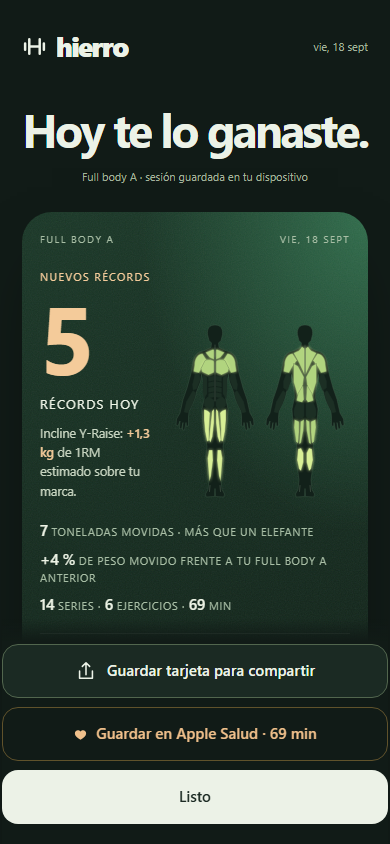
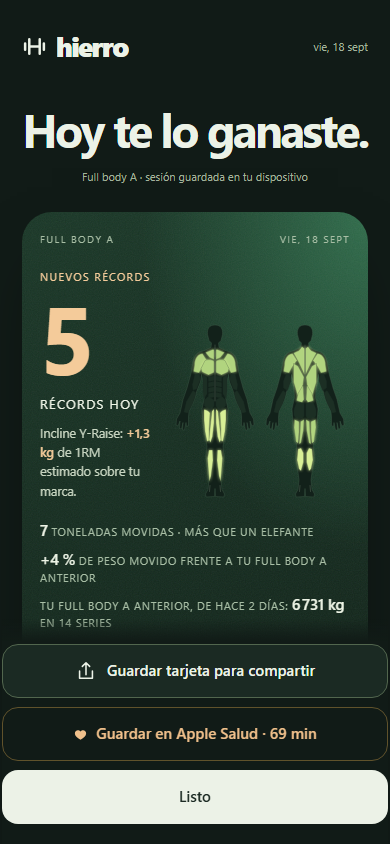
Require the effort on every set and always show the previous session in beta 3.10.0
The last-load reference under the proposal loses its shortcut and stays
a reference. Logging a set without RIR now opens the effort picker and
choosing a value confirms the set in the same gesture; the leave-blank
option is gone and the field reads as required. Time-based sets keep
having no RIR. The finish poster always shows the previous session of
the same plan with its weight and set count, dated, even when today's
session is partial; the percentage still needs two complete sessions.
Test fixtures note the effort on their sets like a person would.

Changed region(s): [[0.0923, 0.7085, 0.6154, 0.7393], [0.6462, 0.7085, 0.8923, 0.7393]]

diff --git a/tests/run.js b/tests/run.js
@@ -85,6 +85,13 @@ function confirmFixtureSets(){
   for(const ex of db.active?.exercises||[])for(const st of ex.sets)if(uiValidSet(ex.key,st))st.done=true;
 }
 function fixtureEntries(){confirmFixtureSets();return collectEntries(db.active);}
+/* Los recorridos de registro representan series con su esfuerzo anotado, como
+   exige la app desde 3.10.0. Las pruebas del propio requisito llaman a uiLogSet. */
+function logSetFixture(xi,si){
+ const ex=db.active.exercises[xi],st=ex.sets[si];
+ if(exMeta(ex.key).type!=='tiempo'&&(st.rir===''||st.rir===undefined||st.rir===null))st.rir='1';
+ uiLogSet(xi,si);
+}
 /* Existing working-set scenarios begin after the real guided preparation.
    Advance a fake wall clock through its rests; never mark work as confirmed. */
 function prepareFixture(xi){
@@ -2288,7 +2295,7 @@ view={name:'routine',id:'newr'};startSession('newr');
 db.active.exercises[0].sets=[{w:'',r:'',rir:''},{w:'',r:'',rir:''}];
 setVal(0,0,'w','40');setVal(0,0,'r','10');
 chk(restUntil===null,'escribir peso y reps no inicia el descanso');
-prepareFixture(0);uiLogSet(0,0);
+prepareFixture(0);logSetFixture(0,0);
 chk(db.active.exercises[0].sets[0].done&&db.active.uiRest&&restUntil>Date.now(), 'confirmar guarda la serie y abre el descanso');
 chk(uiSession().includes('n-rest-phase')&&!uiSession().includes('id="n-weight"'), 'el descanso sustituye el formulario de la serie');
 uiContinue();
@@ -2351,17 +2358,17 @@ askFinish();
 chk(els.modalhost.innerHTML.includes('No hay series confirmadas')&&db.active!==null,'terminar explica que no se han confirmado series');
 closeModal();finishSession();
 chk(db.history.length===historyBeforeProposal&&db.active!==null,'ni siquiera el cierre directo crea una sesión con propuestas sin confirmar');
-closeModal();prepareFixture(0);uiLogSet(0,0);
+closeModal();prepareFixture(0);logSetFixture(0,0);
 const firstRest=restUntil;
 chk(exDone(db.active.exercises[0])&&collectEntries(db.active).length===1,'registrar sí confirma el ejercicio de una serie');
 chk(sessionOpenIdx()===0&&db.active.uiRest&&uiSession().includes('Ejercicio completo'),'el descanso de la última serie permanece en el ejercicio correcto');
-prepareFixture(0);uiLogSet(0,0);
+prepareFixture(0);logSetFixture(0,0);
 chk(restUntil===firstRest,'una confirmación repetida no reinicia el descanso');
 db=normalize(JSON.parse(localStorage.getItem(LS_KEY)));
 chk(db.active.uiRest&&db.active.restUntil===firstRest&&sessionOpenIdx()===0,'la recarga conserva confirmación, ejercicio y descanso');
 uiContinue();
 chk(sessionOpenIdx()===1&&!db.active.uiRest,'continuar tras el último descanso lleva al siguiente ejercicio sin otro paso');
-uiSelectExercise(1);uiUseSuggestion(1);prepareFixture(1);uiLogSet(1,0);uiContinue();uiSelectExercise(2);uiUseSuggestion(2);
+uiSelectExercise(1);uiUseSuggestion(1);prepareFixture(1);logSetFixture(1,0);uiContinue();uiSelectExercise(2);uiUseSuggestion(2);
 chk(collectEntries(db.active).length===2,'el cierre incluye solo las dos series confirmadas, no la tercera propuesta');
 askFinish();
 chk(els.modalhost.innerHTML.includes('sin confirmar'),'el cierre advierte de campos rellenados pendientes de confirmar');closeModal();
@@ -2398,7 +2405,7 @@ prepareFixture(0);const timeUI=uiSession();
 chk(timeUI.includes('no se usa RIR')&&!timeUI.includes('onclick="uiRIR('),'la sesión por tiempo explica la unidad y no muestra selector de RIR');
 setVal(0,0,'r','35');setVal(0,0,'rir','1');
 chk(db.active.exercises[0].sets[0].rir==='','no se acepta 1 RIR como si significara segundos');
-prepareFixture(0);uiLogSet(0,0);
+prepareFixture(0);logSetFixture(0,0);
 chk(collectEntries(db.active)[0].sets[0].r===35&&collectEntries(db.active)[0].sets[0].rir===undefined,'se guarda la duración sin RIR, con lastre vacío permitido');
 uiEditSet(0,0);chk(!els.modalhost.innerHTML.includes('id="n-edit-rir"'),'el editor de una serie por tiempo tampoco pide RIR');closeModal();
 db.history=[];sess(onlyTime,[S(0,30,0),S(0,30,0),S(0,30,0)]);sess(onlyTime,[S(0,35,0),S(0,35,0),S(0,35,0)]);
@@ -2638,7 +2645,7 @@ openExFromSession(0,'equipment');
 chk(view.exTab==='equipment'&&view.from==='session'&&view.rid==='mobile-day'&&uiExercise().includes('Primera placa'),'ajustar la torre abre Equipo en el contexto de la sesión');
 chk(db.active.exercises[0]===mobileEx&&!mobileEx.sets[0].done,'abrir Equipo mantiene el borrador de la sesión');
 view={name:'session'};showLoad(0);chk(els.modalhost.innerHTML.includes("openExFromSession(0,'equipment')"),'el botón de la torre enlaza al ajuste directo');closeModal();
-prepareFixture(0);uiLogSet(0,0);const afterProposalRest=restUntil;
+prepareFixture(0);logSetFixture(0,0);const afterProposalRest=restUntil;
 chk(mobileEx.sets[0].done&&afterProposalRest>Date.now()&&db.active.uiRest,'solo Registrar confirma e inicia el descanso');
 uiUndoProposal(0);chk(mobileEx.sets[0].done&&restUntil===afterProposalRest,'deshacer no modifica una serie ya registrada ni su descanso');
 chk(!warmupPlan(1).first,'una serie confirmada del mismo músculo sí cuenta como trabajo previo');
@@ -2794,7 +2801,7 @@ let warmEx=db.active.exercises[0],warmState=ensureWarmup(0);
 chk(warmState.phase==='set'&&warmState.plan.W===60&&warmState.plan.steps.length===2,'elegir 60 kg crea dos aproximaciones');
 chk(warmState.plan.steps[0].w===35&&warmState.plan.steps[1].w===50,'la escalera usa placas existentes: 35 y 50 kg');
 chk(uiSession().includes('Pin en la placa')&&uiSession().includes('Calentamiento 1 de 2')&&!uiSession().includes('Registrar serie'),'la preparación sustituye toda la interfaz de registro');
-warmEx.sets[0].r='8';uiLogSet(0,0);toggleSetDone(0,0);
+warmEx.sets[0].r='8';logSetFixture(0,0);toggleSetDone(0,0);
 chk(!warmEx.sets[0].done&&collectEntries(db.active).length===0,'los dos caminos para registrar bloquean trabajo antes de preparar');
 uiContinue();chk(warmupRequired(0),'Continuar el descanso normal tampoco salta la preparación');
 const warmStepToken=warmState.id;uiWarmupRecord(0,warmStepToken,0);
@@ -2827,7 +2834,7 @@ setVal(0,0,'w','65');chk(!warmupRequired(0)&&ensureWarmup(0).id===completedWarmT
 setVal(0,0,'w','70');chk(warmupRequired(0)&&ensureWarmup(0).id!==completedWarmToken,'subir la carga más de un 15 % antes de empezar trabajo recalcula la preparación');
 setVal(0,0,'w','60');prepareFixture(0);warmState=ensureWarmup(0);setVal(0,0,'w','55');
 chk(!warmupRequired(0)&&ensureWarmup(0).id===warmState.id,'bajar la carga ya preparada no obliga a repetir el recorrido');
-setVal(0,0,'r','8');db.settings.rest='auto';uiLogSet(0,0);
+setVal(0,0,'r','8');db.settings.rest='auto';logSetFixture(0,0);
 chk(warmEx.sets[0].done&&db.active.uiRest&&restUntil>warmClock,'registrar trabajo mantiene su descanso habitual');
 chk(collectEntries(db.active)[0].loadContext===warmupLoadContext(warmEx.key),'el historial confirmado conserva el contexto para comparar cargas equivalentes');
 uiSelectExercise(1);db.active.exercises[1].sets[0].w='40';
@@ -2981,7 +2988,7 @@ chk(historySplitId(db.history[0])==='sa'&&db.active.splitId==='sa'&&restSecs('re
 
 refineDB();startSession('ra');db.active.exercises[0].sets[0]={w:'20',r:'8',rir:''};prepareFixture(0);save();
 const beforeRejected=localStorage.getItem(LS_KEY),writer=localStorage.setItem;
-localStorage.setItem=()=>{throw new Error('quota');};uiLogSet(0,0);
+localStorage.setItem=()=>{throw new Error('quota');};logSetFixture(0,0);
 chk(!db.active.exercises[0].sets[0].done&&!restUntil,'un registro rechazado sigue editable y no inicia descanso');
 chk(localStorage.getItem(LS_KEY)===beforeRejected,'un registro rechazado conserva la copia anterior');
 localStorage.setItem=writer;db.active.exercises[0].sets[0].done=true;save();const beforeFinishReject=localStorage.getItem(LS_KEY);
@@ -3132,7 +3139,7 @@ suite('Regresión — torre 10/15, ajuste 0/5/10 y preparación conservada');
  uiUndoProposal(0);
  chk(ex.sets[0].w==='85'&&ex.sets[0].r===''&&ex.sets[0].autoWeightKg===undefined,'deshacer recupera tanto el peso manual como su origen');
 
- ex=beginTower();prepareFixture(0);uiUseSuggestion(0);uiLogSet(0,0);
+ ex=beginTower();prepareFixture(0);uiUseSuggestion(0);logSetFixture(0,0);
  const confirmed=JSON.stringify(collectEntries(db.active));setExStack(key,'extra','5');setExStack(key,'extraMax','10');
  chk(JSON.stringify(collectEntries(db.active))===confirmed&&ex.sets[0].w==='70'&&ex.sets[0].done&&ex.sets[0].autoWeightKg===undefined&&collectEntries(db.active)[0].sets[0].w===kg(70),
      'una serie confirmada de 70 lb permanece intacta al corregir el ajuste');
@@ -3237,7 +3244,7 @@ confirmFixtureSets();finishSession();
 fin=els['modalhost'].innerHTML;
 chk(fin.includes('Nuevos récords')&&/<b>2<\/b><i>récords hoy/.test(fin)&&/fin-poster-row"><span class="nm">Hack squat/.test(fin),'con varios récords el número gigante es cuántos, y la mejora mayor encabeza la lista');
 chk(fin.includes('<b>1,6</b> toneladas movidas · más que un coche')&&fin.includes('<b>4</b> series · <b>3</b> ejercicios'),'el peso movido acompaña al titular en toneladas, con una equivalencia y las cifras del día');
-chk(fin.includes('<b>+5 %</b> de peso movido frente a tu Full body anterior'),'y con el porcentaje frente a la última sesión completa del mismo plan');
+chk(fin.includes('<b>+5 %</b> de peso movido frente a tu Full body anterior')&&fin.includes('Tu Full body anterior, de hace 7 días: <b>'+fmtInt(1500)+' kg</b> en 4 series'),'y con el porcentaje y los kilos de la última sesión completa del mismo plan');
 chk(fin.includes('fin-poster-bodies')&&fin.includes('ui-muscle lit')&&fin.includes('Cuádriceps <b>2</b>')&&fin.includes('Pecho <b>1</b>'),'las siluetas encienden los grupos de hoy y la lista da sus series');
 chk(fin.includes('Sesión 4 · 4 semanas seguidas')&&!fin.includes('esta semana'),'la constancia va al pie del póster y calla lo que no es noticia');
 chk((fin.match(/fin-poster-row"/g)||[]).length===2&&fin.includes('class="dl">+3,3')&&fin.includes('polyline'),'cada marca lleva su curva corta y cuánto subió');
@@ -3273,11 +3280,10 @@ sess('lst-banca',[S(60,8),S(60,8)]);
 view={name:'home'};startSession('lst-day');
 let lstEx=db.active.exercises[0];lstEx.sets=lstEx.sets.slice(0,1);lstEx.sets[0].w='40';   /* 40 de discos + barra de 20 = 60 */
 prepareFixture(0);let lstId=ensureWarmup(0).id;
-chk(!warmupRequired(0)&&uiSession().includes('Última vez')&&uiSession().includes('60 × 8 · 8')&&uiSession().includes('Usar 40 de discos'),'bajo la propuesta se ve lo que cargaste la última vez, con acceso directo en la convención del campo');
+chk(!warmupRequired(0)&&uiSession().includes('Última vez')&&uiSession().includes('60 × 8 · 8')&&!uiSession().includes('Usar '),'bajo la propuesta se ve lo que cargaste la última vez, solo como referencia');
 setPairs(db.gym.plates.findIndex(p=>p.kg===10),-1);
 chk(!warmupRequired(0)&&ensureWarmup(0).id===lstId,'cambiar el inventario de discos no reinicia una preparación terminada');
 setVal(0,0,'w','45');chk(!warmupRequired(0)&&ensureWarmup(0).id===lstId,'subir de 60 a 65 kg totales tampoco');
-uiUseLastLoad(0);chk(lstEx.sets[0].w==='40'&&lstEx.sets[0].totalKg===60&&!warmupRequired(0),'«Usar» pone la carga de la última vez en discos y conserva la preparación');
 setVal(0,0,'w','55');chk(warmupRequired(0)&&ensureWarmup(0).id!==lstId,'una subida del 25 % sí vuelve a preparar');
 /* preparación a medias: el inventario recalcula solo lo pendiente */
 setVal(0,0,'w','40');ensureWarmup(0,true);let lstW=ensureWarmup(0);
@@ -3286,6 +3292,34 @@ uiWarmupRecord(0,lstW.id,0);lstClock=lstW.restUntil;uiWarmupNext(0,lstW.id,1);
 const lstDone=lstW.plan.steps[0].w;setPairs(db.gym.plates.findIndex(p=>p.kg===5),-1);lstW=ensureWarmup(0);
 chk(lstW.completed===1&&Math.abs(lstW.plan.steps[0].w-lstDone)<1e-9&&lstW.phase==='set','con un escalón hecho, cambiar discos conserva ese escalón y recalcula los demás');
 Date.now=lstNow;uiResetRest();db.active=null;clearInterval(timerInt);timerInt=null;
+
+suite('3.10.0 — el esfuerzo es parte del registro y el cierre siempre muestra la sesión anterior');
+resetDB();uiResetRest();db.gym=defaultGym('kg');db.settings.unit='kg';db.settings.rest='off';db.settings.health='off';
+Object.assign(exMeta('rir-banca'),{equip:'barra',muscle:'pecho',lo:6,hi:8});exMeta('rir-plancha').type='tiempo';
+db.routines=[{id:'rir-day',name:'Torso',split:(db.splits[0]||{}).id,exercises:[{id:'r1',key:'rir-banca',name:'Press banca'},{id:'r2',key:'rir-plancha',name:'Plancha'}]}];
+view={name:'home'};startSession('rir-day');
+let rirEx=db.active.exercises[0];rirEx.sets=rirEx.sets.slice(0,1);rirEx.sets[0].w='40';prepareFixture(0);
+chk(uiSession().includes('aria-required="true"')&&uiSession().includes('Elegir')&&!uiSession().includes('Opcional'),'el RIR se presenta como necesario, no opcional');
+setVal(0,0,'r','8');uiLogSet(0,0);
+chk(!rirEx.sets[0].done&&els['modalhost'].innerHTML.includes('n-rir-grid')&&els['modalhost'].innerHTML.includes('Para registrar la serie')&&!els['modalhost'].innerHTML.includes('Dejar sin anotar'),'registrar sin RIR abre el selector, sin opción de dejarlo en blanco');
+uiSetRIR(0,0,'2',true);
+chk(rirEx.sets[0].done&&rirEx.sets[0].rir==='2'&&db.active.restKey==='rir-banca','elegir el esfuerzo confirma la serie en el mismo gesto');
+uiResetRest();uiSelectExercise(1);let rirT=db.active.exercises[1];rirT.sets=rirT.sets.slice(0,1);prepareFixture(1);rirT.sets[0]={w:'',r:'30',rir:''};uiLogSet(1,0);
+chk(rirT.sets[0].done===true,'los ejercicios por tiempo se registran sin RIR');
+uiResetRest();db.active=null;
+/* el cierre: la referencia de la sesión anterior aparece aunque hoy sea parcial */
+resetDB();db.settings.health='off';
+db.routines.push({id:'ref',name:'Lower',split:(db.splits[0]||{}).id,exercises:[{id:'f1',name:'Leg Extension',key:'ref-ext'}]});
+db.history.push({id:uid(),routineId:'ref',routineName:'Lower',date:new Date(Date.now()-5*864e5).toISOString(),duration:3000,plannedSets:3,
+  entries:[{key:'ref-ext',name:'Leg Extension',sets:[S(40,10),S(40,10),S(40,10)]}]});
+startSession('ref');while(db.active.exercises[0].sets.length<3)addSet(0);
+db.active.exercises[0].sets[0]={w:'40',r:'9',rir:'0'};
+db.active.exercises[0].sets=db.active.exercises[0].sets.filter((st,i)=>i===0||st.w!=='');
+db.active.plannedSets=3;confirmFixtureSets();
+db.active.exercises[0].sets.push({w:'',r:'',rir:''},{w:'',r:'',rir:''});finishSession();
+fin=els['modalhost'].innerHTML;
+chk(fin.includes('series previstas')&&fin.includes('Tu Lower anterior, de hace 5 días: <b>'+fmtInt(1200)+' kg</b> en 3 series')&&!fin.includes(' %'),'una sesión parcial no se compara, pero sí muestra cuánto moviste en la anterior');
+closeModal();
 
 /* ---------- resultado ---------- */
 console.log('\n' + '='.repeat(50));

diff --git a/ui.js b/ui.js
@@ -1,5 +1,5 @@
 /* Hierro UI. Classic script: presentation uses the existing training engine. */
-const UI_VERSION = '3.9.0';
+const UI_VERSION = '3.10.0';
 const UI_ICONS = {
  phone:'<rect x="6" y="2" width="12" height="20" rx="3"/><path d="M10 5h4M11 19h2"/>',
  bell:'<path d="M18 8a6 6 0 0 0-12 0c0 7-3 7-3 9h18c0-2-3-2-3-9M10 21h4"/>',
@@ -698,18 +698,7 @@ function uiLastEntry(key){
 }
 function uiLastLoad(xi){
  const ex=db.active.exercises[xi],last=uiLastEntry(ex.key);if(!last)return '';
- const m=exMeta(ex.key),w=m.type==='tiempo'?0:workWeight(last.entry.sets);
- /* el botón habla como el campo: discos totales cuando el aparato pesa, carga total si no */
- const use=m.type!=='tiempo'&&w>0?uiButton(`Usar ${fmtWEx(ex.key,kgToTyped(ex.key,w))}${discosOffset(ex.key)>0?' de discos':''}`,uiAction('uiUseLastLoad',xi),'back','text'):'';
- return `<div class="n-last-load"><span><small>Última vez · ${esc(fmtDateShort(last.session.date))}</small><b>${esc(setsLine(ex.key,last.entry.sets))}</b></span>${use}</div>`;
-}
-function uiUseLastLoad(xi){
- const ex=db.active?.exercises[xi];if(!ex)return;const si=uiCurrentSet(ex);if(si<0)return;
- const last=uiLastEntry(ex.key);if(!last)return;const w=workWeight(last.entry.sets);if(!(w>0))return;
- const st=ex.sets[si];
- st.wkg=kgToTyped(ex.key,w);st.totalKg=w;st.w=inputWEx(ex.key,st.wkg);delete st.autoWeightKg;
- db.active.open=xi;db.active.lastLog=Date.now();save();render();
- const status=document.getElementById('n-draft-status');if(status)status.textContent='Carga de la última vez preparada. Ajusta si prefieres un punto medio.';
+ return `<div class="n-last-load"><span><small>Última vez · ${esc(fmtDateShort(last.session.date))}</small><b>${esc(setsLine(ex.key,last.entry.sets))}</b></span></div>`;
 }
 function uiSetDisplay(key,st){return `${st.w!==''?fmtWEx(key,recordedSetKg(key,st))+' '+uLabelEx(key)+' total':'—'} × ${st.r!==''?esc(st.r):'—'}${exMeta(key).type==='tiempo'?' s':''}`;}
 function uiSetProposal(xi,hasPrevious){
@@ -738,7 +727,7 @@ function uiSession(){
   const weightLabel=effEquip(ex.key)==='mancuerna'&&effPoints(ex.key)===2?'Total de las dos':discosOffset(ex.key)>0?'Discos totales':m.type==='asistido'?'Ayuda':corp?'Lastre opcional':'Peso';
   const offset=discosOffset(ex.key),hint=offset>0?'Sin '+(effEquip(ex.key)==='barra'?'la barra':'el aparato'):effEquip(ex.key)==='mancuerna'&&effPoints(ex.key)===2?'Suma ambas manos':m.type==='asistido'?'Menos ayuda = más esfuerzo':corp?'Vacío = sin lastre':uLabelEx(ex.key);
   const prev=ex.sets.slice(0,si).reverse().find(x=>x.done);
-  work=`<div class="n-current-label"><span class="n-eyebrow">Serie ${si+1} de ${ex.sets.length}</span>${prev?uiButton('Repetir anterior',uiAction('uiRepeatSet',xi),'copy','text'):''}</div>${ex.sugg?uiSetProposal(xi,!!prev):`<p class="n-first-hint">${corp?'Registra lo que completes.':'Elige una carga para tu rango.'}</p>`}${uiLastLoad(xi)}<div id="ui-load-${xi}">${uiLoadStrip(xi)}</div><div class="n-set-fields" id="set-${xi}-${si}"><div class="n-set-field"><label for="n-weight">${weightLabel} · ${uLabelEx(ex.key)}</label><input id="n-weight" aria-label="${weightLabel} · ${uLabelEx(ex.key)} · serie ${si+1}" aria-describedby="n-weight-help" type="number" min="0" inputmode="decimal" step="any" placeholder="${corp?'0':'—'}" value="${esc(st.w??'')}" oninput="this.setCustomValidity('');setVal(${xi},${si},'w',this.value)"><div class="n-stepper"><button aria-label="Reducir peso" onclick="uiStep(${xi},${si},'w',-1)">−</button><small id="n-weight-help">${hint}</small><button aria-label="Aumentar peso" onclick="uiStep(${xi},${si},'w',1)">+</button></div></div><div class="n-set-field"><label for="n-reps">${repsLabel}</label><input id="n-reps" aria-label="${repsLabel} de la serie ${si+1}" type="number" min="1" step="1" inputmode="numeric" placeholder="—" value="${esc(st.r??'')}" oninput="this.setCustomValidity('');setVal(${xi},${si},'r',this.value)"><div class="n-stepper"><button aria-label="Reducir ${repsLabel.toLowerCase()}" onclick="uiStep(${xi},${si},'r',-1)">−</button><small>Rango <span>${r.lo}–${r.hi}</span></small><button aria-label="Aumentar ${repsLabel.toLowerCase()}" onclick="uiStep(${xi},${si},'r',1)">+</button></div></div></div>${m.type==='tiempo'?`<div class="n-time-tools">${uiButton(s.setTimer?.key===ex.key&&s.setTimer.si===si?'Retomar cronómetro':'Medir esta serie',uiAction('startSetTimer',xi,si),'clock','text')}<span class="n-time-help">Por tiempo: no se usa RIR.</span></div>`:`<div class="n-rir"><span>Reps en reserva</span><button id="n-rir-choice" aria-label="Repeticiones en reserva: ${st.rir!==''&&st.rir!==undefined?esc(st.rir):'sin anotar'}" onclick="uiRIR(${xi},${si})">${st.rir!==''&&st.rir!==undefined?`${Number(st.rir)>=5?'5+':esc(st.rir)}`:'Opcional'}${uiIcon('chevron')}</button></div>`}<div class="n-record-dock">${uiButton('Registrar serie',uiAction('uiLogSet',xi,si),'check')}<span class="n-save-status" id="n-draft-status" role="status"></span></div>`;
+  work=`<div class="n-current-label"><span class="n-eyebrow">Serie ${si+1} de ${ex.sets.length}</span>${prev?uiButton('Repetir anterior',uiAction('uiRepeatSet',xi),'copy','text'):''}</div>${ex.sugg?uiSetProposal(xi,!!prev):`<p class="n-first-hint">${corp?'Registra lo que completes.':'Elige una carga para tu rango.'}</p>`}${uiLastLoad(xi)}<div id="ui-load-${xi}">${uiLoadStrip(xi)}</div><div class="n-set-fields" id="set-${xi}-${si}"><div class="n-set-field"><label for="n-weight">${weightLabel} · ${uLabelEx(ex.key)}</label><input id="n-weight" aria-label="${weightLabel} · ${uLabelEx(ex.key)} · serie ${si+1}" aria-describedby="n-weight-help" type="number" min="0" inputmode="decimal" step="any" placeholder="${corp?'0':'—'}" value="${esc(st.w??'')}" oninput="this.setCustomValidity('');setVal(${xi},${si},'w',this.value)"><div class="n-stepper"><button aria-label="Reducir peso" onclick="uiStep(${xi},${si},'w',-1)">−</button><small id="n-weight-help">${hint}</small><button aria-label="Aumentar peso" onclick="uiStep(${xi},${si},'w',1)">+</button></div></div><div class="n-set-field"><label for="n-reps">${repsLabel}</label><input id="n-reps" aria-label="${repsLabel} de la serie ${si+1}" type="number" min="1" step="1" inputmode="numeric" placeholder="—" value="${esc(st.r??'')}" oninput="this.setCustomValidity('');setVal(${xi},${si},'r',this.value)"><div class="n-stepper"><button aria-label="Reducir ${repsLabel.toLowerCase()}" onclick="uiStep(${xi},${si},'r',-1)">−</button><small>Rango <span>${r.lo}–${r.hi}</span></small><button aria-label="Aumentar ${repsLabel.toLowerCase()}" onclick="uiStep(${xi},${si},'r',1)">+</button></div></div></div>${m.type==='tiempo'?`<div class="n-time-tools">${uiButton(s.setTimer?.key===ex.key&&s.setTimer.si===si?'Retomar cronómetro':'Medir esta serie',uiAction('startSetTimer',xi,si),'clock','text')}<span class="n-time-help">Por tiempo: no se usa RIR.</span></div>`:`<div class="n-rir"><span>Reps en reserva</span><button id="n-rir-choice" aria-label="Repeticiones en reserva: ${st.rir!==''&&st.rir!==undefined?esc(st.rir):'por anotar'}" aria-required="true" onclick="uiRIR(${xi},${si})">${st.rir!==''&&st.rir!==undefined?`${Number(st.rir)>=5?'5+':esc(st.rir)}`:'Elegir'}${uiIcon('chevron')}</button></div>`}<div class="n-record-dock">${uiButton('Registrar serie',uiAction('uiLogSet',xi,si),'check')}<span class="n-save-status" id="n-draft-status" role="status"></span></div>`;
  }
  const logged=ex.sets.map((st,i)=>st.done?`<button class="n-set-chip" onclick="uiEditSet(${xi},${i})" aria-label="Editar serie ${i+1}: ${uiSetDisplay(ex.key,st)}"><span>${i+1}</span>${uiSetDisplay(ex.key,st)}${uiIcon('check')}</button>`:'').join('');
  return `<div class="n-focus">${title}${exerciseNotes(ex.key)&&!resting&&!complete?`<button class="n-session-note" onclick="editExNotes(${xi})" aria-label="Editar tu nota: ${esc(exerciseNotes(ex.key))}">${uiIcon('pin')}<span><small>${m.gymNotes?esc(db.gym.name):'Tu nota'}</small><strong>${esc(exerciseNotes(ex.key))}</strong></span>${uiIcon('edit')}</button>`:''}${work}${typeof pushActive==='function'&&pushActive()&&(resting||preparing)?`<p class="n-push-session" data-push-status role="status">${esc(pushMessage)}</p>`:''}${!resting&&logged?`<div class="n-logged-sets"><span class="n-eyebrow">Ya hiciste · carga total</span><div>${logged}</div></div>`:''}<div class="n-session-tools">${uiButton('Ejercicio',uiAction('uiSessionOptions',xi),'more','text')}${uiGymButton()}</div><div class="vschip" id="vs-${xi}"></div></div>`;
@@ -867,6 +856,8 @@ function uiLogSet(xi,si){
   if(input?.setCustomValidity){input.setCustomValidity(badW?'Escribe un peso válido, incluido 0 cuando corresponda.':'Escribe un número entero mayor que cero.');input.reportValidity();input.focus();}
   return;
  }
+ /* el esfuerzo forma parte del registro: sin RIR se pide antes de confirmar */
+ if(exMeta(ex.key).type!=='tiempo'&&(st.rir===''||st.rir===undefined||st.rir===null)){uiRIR(xi,si,true);return;}
  if(!commitChange(()=>{db.active.open=xi;st.done=true;delete st.autoWeightKg;st.loadContext=warmupLoadContext(ex.key);if(exMeta(ex.key).type==='tiempo')delete st.rir;if(st.w!=='')st.totalKg=recordedSetKg(ex.key,st);ex.lastWorkAt=db.active.lastSeriesAt=db.active.lastLog=Date.now();if(db.active.setTimer?.key===ex.key)delete db.active.setTimer;startRestAuto(ex.key);db.active.restKey=ex.key;db.active.uiRest=!!restUntil;})){uiSaveState();return;}
  render();window.scrollTo(0,0);
 }
@@ -900,12 +891,12 @@ function uiSessionQueue(){
  const s=db.active;
  openModal(`<h2>Tu sesión</h2><p class="muted">Cambia de ejercicio cuando lo necesites. Las series que llevas siguen guardadas.</p>${s.exercises.map((ex,i)=>uiRow(esc(exBaseName(ex.name)),`${ex.sets.filter(s=>s.done).length} de ${ex.sets.length} series confirmadas`,uiAction('uiSelectExercise',i),exDone(ex)?'check':'chevron',`<span class="n-number">${i+1}</span>`)).join('')}${uiButton('Añadir ejercicio','uiLibrary()','plus','secondary')}${uiButton('Volver a mi serie','closeModal()','back','text')}`);
 }
-function uiRIR(xi,si){
+function uiRIR(xi,si,andLog=false){
  if(exMeta(db.active.exercises[xi].key).type==='tiempo'){infoModal('Segundos, sin RIR','RIR cuenta repeticiones que podrías haber hecho. Para este ejercicio registra el tiempo completado; la propuesta se basa en esa duración.');return;}
  const st=db.active.exercises[xi].sets[si];
- openModal(`<h2>Repeticiones en reserva</h2><p class="muted">Al terminar, ¿cuántas más habrías podido hacer con buena técnica?</p><div class="n-rir-grid">${[0,1,2,3,4,5].map(n=>`<button class="${String(st.rir)===String(n)?'on':''}" onclick="uiSetRIR(${xi},${si},'${n}')"><b>${n===5?'5+':n}</b><small>${n===0?'Al fallo':n===5?'Con margen':'en reserva'}</small></button>`).join('')}</div>${uiButton('Dejar sin anotar',`uiSetRIR(${xi},${si},'')`,'back','text')}`);
+ openModal(`<h2>Repeticiones en reserva</h2><p class="muted">${andLog?'Para registrar la serie, anota el esfuerzo. ':''}Al terminar, ¿cuántas más habrías podido hacer con buena técnica?</p><div class="n-rir-grid">${[0,1,2,3,4,5].map(n=>`<button class="${String(st.rir)===String(n)?'on':''}" onclick="uiSetRIR(${xi},${si},'${n}',${andLog?'true':'false'})"><b>${n===5?'5+':n}</b><small>${n===0?'Al fallo':n===5?'Con margen':'en reserva'}</small></button>`).join('')}</div>`);
 }
-function uiSetRIR(xi,si,val){setVal(xi,si,'rir',val);closeModal();render();uiFocus('n-rir-choice');}
+function uiSetRIR(xi,si,val,andLog=false){setVal(xi,si,'rir',val);closeModal();if(andLog){uiLogSet(xi,si);return;}render();uiFocus('n-rir-choice');}
 function uiAddSet(xi){db.active.exercises[xi].sets.push({w:'',r:'',rir:''});uiResetRest();save();closeModal();render();}
 function uiEditSet(xi,si){
  const ex=db.active?.exercises[xi],st=ex?.sets[si];if(!st)return;

diff --git a/index.html b/index.html
@@ -652,7 +652,7 @@
   .hd-acts .dz{font-family:var(--mono);font-size:9.5px;letter-spacing:.12em;text-transform:uppercase;
     color:var(--danger);text-decoration:underline;text-underline-offset:3px}
 </style>
-<link rel="stylesheet" href="ui.css?v=3.9.0">
+<link rel="stylesheet" href="ui.css?v=3.10.0">
 </head>
 <body>
 <a class="ui-skip-link" href="#main">Ir al contenido</a>
@@ -664,13 +664,13 @@
 <div id="modalhost"></div>
 <div id="toasthost"></div>
 
-<script src="ui.js?v=3.9.0"></script>
-<script src="sync-core.js?v=3.9.0"></script>
-<script src="sync-engine.js?v=3.9.0"></script>
-<script src="qr.js?v=3.9.0"></script>
-<script src="sync.js?v=3.9.0"></script>
-<script src="push-core.js?v=3.9.0"></script>
-<script src="push.js?v=3.9.0"></script>
+<script src="ui.js?v=3.10.0"></script>
+<script src="sync-core.js?v=3.10.0"></script>
+<script src="sync-engine.js?v=3.10.0"></script>
+<script src="qr.js?v=3.10.0"></script>
+<script src="sync.js?v=3.10.0"></script>
+<script src="push-core.js?v=3.10.0"></script>
+<script src="push.js?v=3.10.0"></script>
 <script>
 'use strict';
 /* =====================================================================
@@ -690,7 +690,7 @@ const LS_KEY = 'hierro.v1';
      PARCHE cuando solo se arreglan fallos.
    Tiene que ir SIEMPRE igual que CACHE en sw.js; hay un test que lo
    comprueba, porque olvidar uno de los dos es el fallo fácil. */
-const APP_VERSION = '3.9.0';
+const APP_VERSION = '3.10.0';
 let updateReady = false, updateDismissed = false;
 
 /* Aviso de versión nueva, abajo y por encima de todo.
@@ -4725,10 +4725,14 @@ function finishScreenHTML(rec, prs, failNote){
   const best = prs.length ? prs[0] : null;
   const routine = esc(rec.routineName);
   const series = n => `${n} serie${n === 1 ? '' : 's'}`;
-  /* las sesiones completas del mismo día del plan, para comparar el peso movido */
-  const prevSessions = routineSessions(rec).filter(h => h.id !== rec.id&&!h.deload&&(!h.plannedSets||h.entries.reduce((n,e)=>n+e.sets.length,0)>=h.plannedSets));
+  /* las sesiones completas del mismo día del plan comparan el peso movido; la
+     referencia de «tu sesión anterior» se muestra siempre, aunque sea parcial */
+  const sameDay = routineSessions(rec).filter(h => h.id !== rec.id && !h.deload);
+  const completeSession = h => !h.plannedSets || h.entries.reduce((n,e)=>n+e.sets.length,0) >= h.plannedSets;
+  const prevSessions = sameDay.filter(completeSession);
   const lastSession = prevSessions.length ? prevSessions[prevSessions.length - 1] : null;
   const lastVol = lastSession ? sessionVolume(lastSession.entries) : 0;
+  const ref = lastSession || (sameDay.length ? sameDay[sameDay.length - 1] : null);
   const minutes = Math.max(1, Math.round(rec.duration / 60));
   const st = sessionStreak(rec);
   const ms = sessionMuscleStats(rec.entries);
@@ -4790,6 +4794,10 @@ function finishScreenHTML(rec, prs, failNote){
     stats.push(`<div><b>${t.num}</b> ${t.word}${like ? ` · ${like.replace(/\.$/, '').toLowerCase()}` : ''}</div>`);
   }
   if(tone === 'pr' && cmp !== null) stats.push(`<div><b>${cmpTxt}</b> de peso movido frente a tu ${routine} anterior</div>`);
+  if(ref){
+    const rv = sessionVolume(ref.entries), rs = ref.entries.reduce((n, e) => n + e.sets.length, 0), rm = uiSessionMeasure(ref.entries);
+    stats.push(`<div>Tu ${routine} anterior${ref === lastSession ? '' : ' (parcial)'}${agoLong(ref.date) ? ',' + agoLong(ref.date) : ''}: <b>${rv > 0 ? `${fmtInt(fromKg(rv))} ${uLabel()}` : `${fmtInt(rm.value)} ${rm.unit}`}</b> en ${series(rs)}</div>`);
+  }
   stats.push(`<div><b>${nSets}</b> ${nSets === 1 ? 'serie' : 'series'} · <b>${rec.entries.length}</b> ${rec.entries.length === 1 ? 'ejercicio' : 'ejercicios'} · <b>${minutes}</b> min</div>`);
 
   /* ---- las filas: todas las marcas del día, o lo más pesado ---- */

diff --git a/ui.css b/ui.css
@@ -1013,7 +1013,7 @@ body[data-view=session] header.app,body[data-view=session] main{padding-left:18p
 html[data-motion=off] *,html[data-motion=off] *::before,html[data-motion=off] *::after{animation:none!important;transition:none!important;scroll-behavior:auto!important}
 
 /* One palette for surfaces, forms, charts and the anatomical map. */
-:root{--ui-version:"3.9.0";--muscle-zero:#eff0e8;--muscle-low:#b2c9a0;--muscle-medium:#789c66;--muscle-high:#285c46}
+:root{--ui-version:"3.10.0";--muscle-zero:#eff0e8;--muscle-low:#b2c9a0;--muscle-medium:#789c66;--muscle-high:#285c46}
 :root[data-theme=dark]{color-scheme:dark;--paper:#111b17;--white:#1b2a23;--ink:#ecf2e7;--muted:#acb8a8;--line:#35473b;--green:#c1dfa0;--lime:#d8ef96;--soft:#27382c;--surface-2:#24372b;--well:#2c4031;--line-2:#52664e;--ash:#bcc8b4;--dim:#a4b49e;--hold:#f0c08b;--danger:#ffb2a0;--muscle-zero:#1a2a21;--muscle-low:#405c3d;--muscle-medium:#77945d;--muscle-high:#c1dfa0}
 [data-theme=dark] nav.tabs{background:var(--paper)}
 [data-theme=dark] .n-primary{color:var(--paper)}

diff --git a/sw.js b/sw.js
@@ -15,21 +15,21 @@
    tardara dos arranques en verse: el primero servía la vieja y dejaba
    la nueva lista para el siguiente. */
 /* va siempre igual que APP_VERSION en index.html — hay un test que lo verifica */
-const CACHE = 'hierro-3.9.0';
+const CACHE = 'hierro-3.10.0';
 const FONT_HOSTS = ['fonts.googleapis.com', 'fonts.gstatic.com'];
 const ASSETS = [
   './',
   './index.html',
   './ui.css',
   './ui.js',
-  './ui.css?v=3.9.0',
-  './ui.js?v=3.9.0',
-  './sync-core.js?v=3.9.0',
-  './sync-engine.js?v=3.9.0',
-  './sync.js?v=3.9.0',
-  './qr.js?v=3.9.0',
-  './push-core.js?v=3.9.0',
-  './push.js?v=3.9.0',
+  './ui.css?v=3.10.0',
+  './ui.js?v=3.10.0',
+  './sync-core.js?v=3.10.0',
+  './sync-engine.js?v=3.10.0',
+  './sync.js?v=3.10.0',
+  './qr.js?v=3.10.0',
+  './push-core.js?v=3.10.0',
+  './push.js?v=3.10.0',
   './icon.svg',
   './manifest.webmanifest',
   './icon-180.png',

diff --git a/docs/last-load-2026-09-18/README.md b/docs/last-load-2026-09-18/README.md
@@ -23,3 +23,11 @@ Cuatro problemas reportados desde el gimnasio, en una sola sesión de entrenamie
 
 ![Sesión con la referencia de la última vez](session-dark-390.png)
 ![Cierre con el porcentaje frente a la sesión anterior](finish-dark-390.png)
+
+## 3.10.0 · ajustes tras probarlo en el gimnasio
+
+- **La referencia va sin botón.** «Última vez» muestra fecha y series; la carga se escribe a mano, con la propuesta o con «Repetir anterior». Se retiró «Usar».
+- **El esfuerzo es parte del registro.** Registrar una serie sin RIR abre el selector y, al elegir, confirma la serie en el mismo gesto. Desaparece «Dejar sin anotar»; el campo se presenta como necesario. Los ejercicios por tiempo siguen sin RIR. Las pruebas de recorrido anotan el esfuerzo en sus series, como haría la persona.
+- **El cierre siempre muestra la sesión anterior.** Junto a las cifras del día aparece «Tu Lower anterior, de hace 5 días: 4 380 kg en 9 series». El porcentaje solo se calcula cuando las dos sesiones son completas; si la anterior es parcial se indica.
+
+![Registrar sin RIR abre el selector](rir-dark-390.png)
